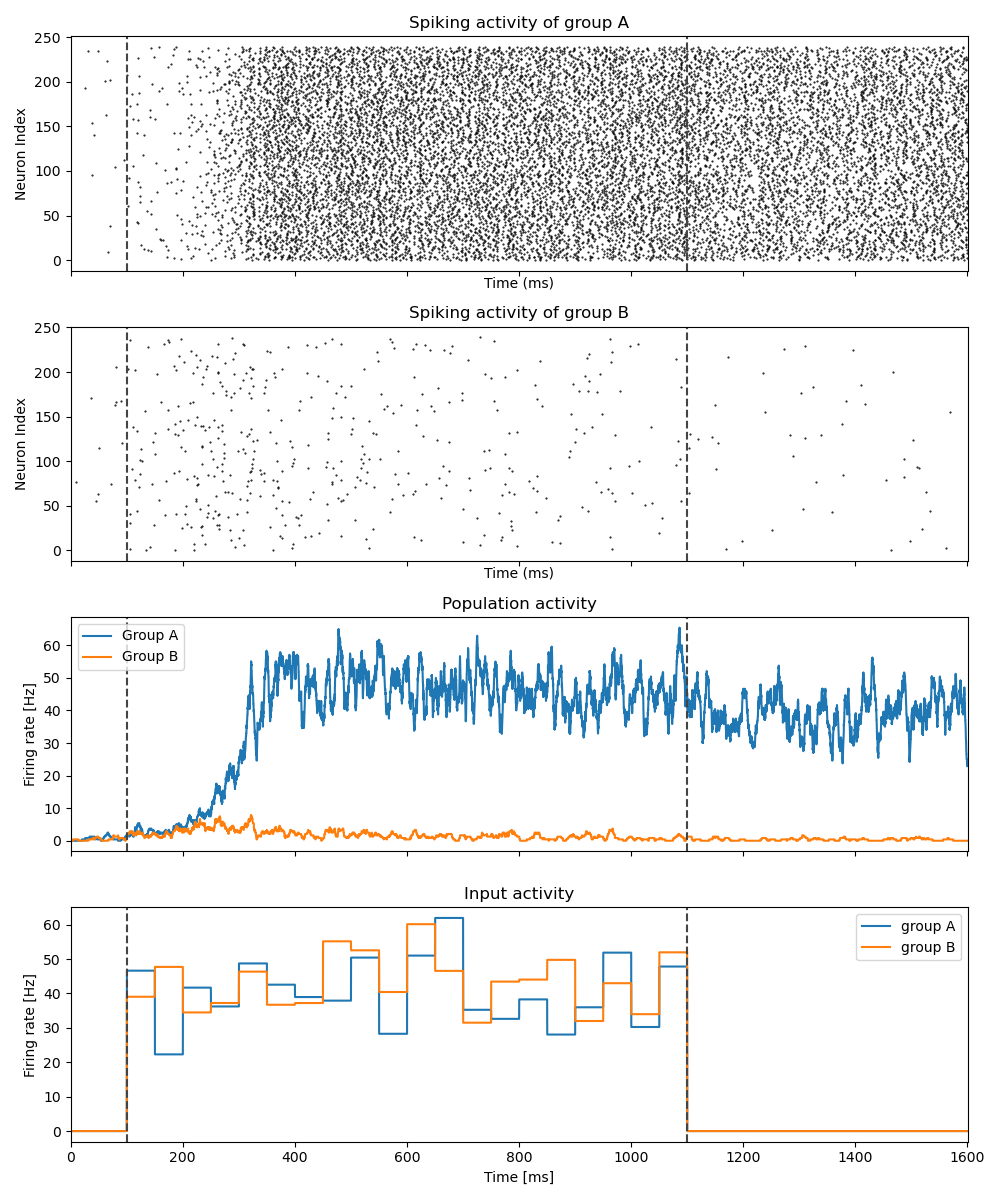
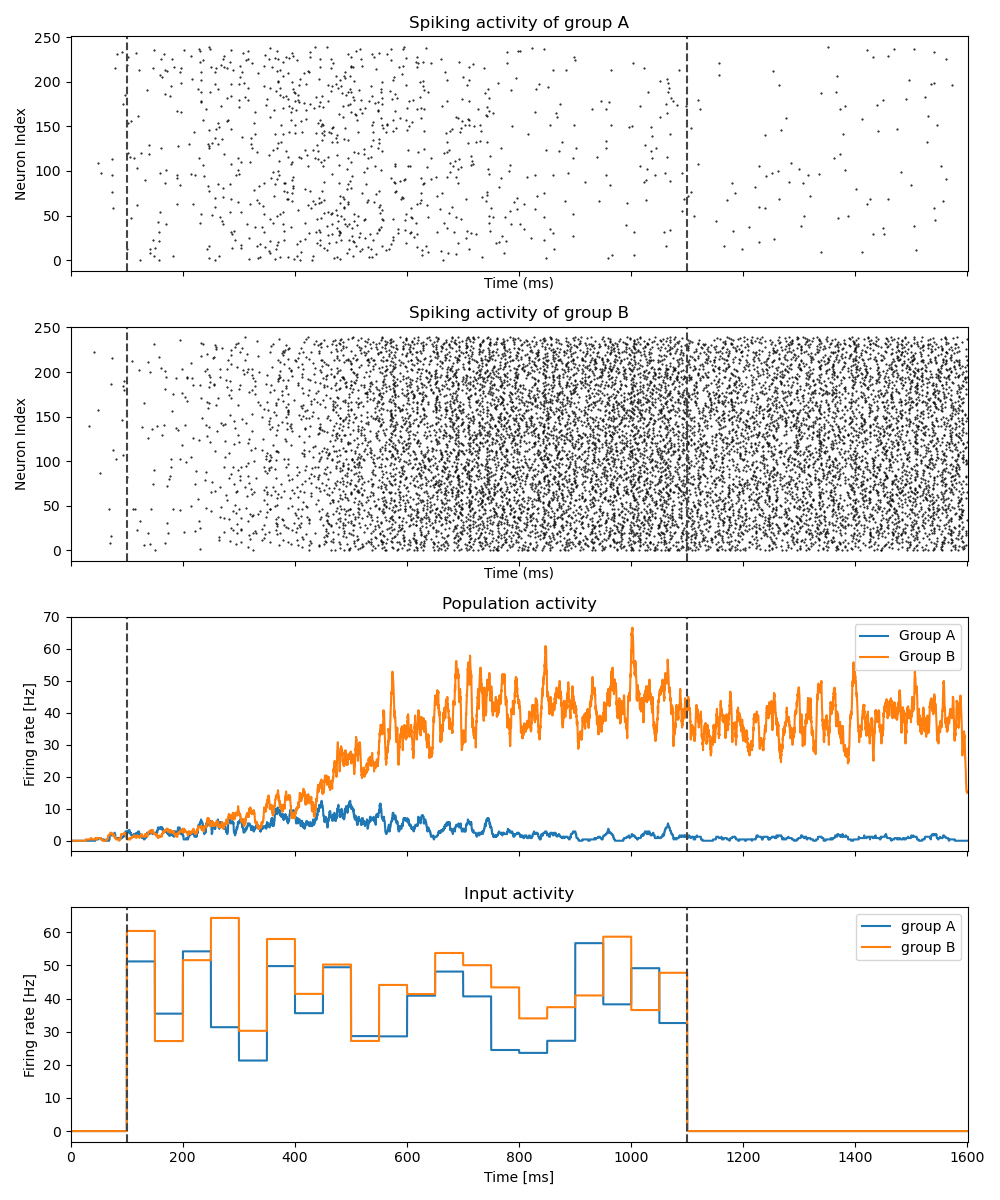
modify the dmnet (finally worked)

diff --git a/network_models/decision_making.py b/network_models/decision_making.py
@@ -44,11 +44,10 @@ class PoissonStim(bp.dyn.NeuGroup):
 
 
 class DecisionMaking(bp.dyn.Network):
-  def __init__(self, scale=1., mu0=40., coherence=25.6, dt=0.1):
+  def __init__(self, scale=1., mu0=40., coherence=25.6, f=0.15, dt=bm.get_dt()):
     super(DecisionMaking, self).__init__()
 
     # 初始神经元化参数
-    f = 0.15
     num_exc = int(1600 * scale)
     num_inh = int(400 * scale)
     num_A = int(f * num_exc)
@@ -59,30 +58,30 @@ class DecisionMaking(bp.dyn.Network):
     # 初始化突触参数
     w_pos = 1.7
     w_neg = 1. - f * (w_pos - 1.) / (1. - f)
-    g_max_ext2E_AMPA = 2.1 * 1e-3  # uS
-    g_max_ext2I_AMPA = 1.62 * 1e-3  # uS
-    g_max_E2E_AMPA = 0.05 * 1e-3 / scale  # uS
-    g_max_E2E_NMDA = 0.165 * 1e-3 / scale  # uS
-    g_max_E2I_AMPA = 0.04 * 1e-3 / scale  # uS
-    g_max_E2I_NMDA = 0.13 * 1e-3 / scale  # uS
-    g_max_I2E_GABAa = 1.3 * 1e-3 / scale  # uS
-    g_max_I2I_GABAa = 1.0 * 1e-3 / scale  # uS
+    g_ext2E_AMPA = 2.1  # nS
+    g_ext2I_AMPA = 1.62  # nS
+    g_E2E_AMPA = 0.05 / scale  # nS
+    g_E2I_AMPA = 0.04 / scale  # nS
+    g_E2E_NMDA = 0.165 / scale  # nS
+    g_E2I_NMDA = 0.13 / scale  # nS
+    g_I2E_GABAa = 1.3 / scale  # nS
+    g_I2I_GABAa = 1.0 / scale  # nS
 
     ampa_par = dict(delay_step=int(0.5 / dt), E=0., tau=2.0)  # AMP受体的参数
     gaba_par = dict(delay_step=int(0.5 / dt), E=-70., tau=5.0)  # GABA受体的参数
     nmda_par = dict(delay_step=int(0.5 / dt), tau_decay=100, tau_rise=2., E=0., cc_Mg=1., a=0.5)  # NMDA受体的参数
 
     # 兴奋性神经元群（锥体神经元）
-    A = bp.dyn.LIF(num_A, V_rest=-70., V_reset=-55., V_th=-50., tau=20., R=40.,
-                   tau_ref=2., V_initializer=bp.init.OneInit(-55.))
-    B = bp.dyn.LIF(num_B, V_rest=-70., V_reset=-55., V_th=-50., tau=20., R=40.,
-                   tau_ref=2., V_initializer=bp.init.OneInit(-55.))
-    N = bp.dyn.LIF(num_N, V_rest=-70., V_reset=-55., V_th=-50., tau=20., R=40.,
-                   tau_ref=2., V_initializer=bp.init.OneInit(-55.))
+    A = bp.dyn.LIF(num_A, V_rest=-70., V_reset=-55., V_th=-50., tau=20., R=0.04,
+                   tau_ref=2., V_initializer=bp.init.OneInit(-70.))
+    B = bp.dyn.LIF(num_B, V_rest=-70., V_reset=-55., V_th=-50., tau=20., R=0.04,
+                   tau_ref=2., V_initializer=bp.init.OneInit(-70.))
+    N = bp.dyn.LIF(num_N, V_rest=-70., V_reset=-55., V_th=-50., tau=20., R=0.04,
+                   tau_ref=2., V_initializer=bp.init.OneInit(-70.))
 
     # 抑制性神经元细胞（中间神经元）
-    I = bp.dyn.LIF(num_inh, V_rest=-70., V_reset=-55., V_th=-50., tau=10., R=50.,
-                   tau_ref=1., V_initializer=bp.init.OneInit(-55.))
+    I = bp.dyn.LIF(num_inh, V_rest=-70., V_reset=-55., V_th=-50., tau=10., R=0.05,
+                   tau_ref=1., V_initializer=bp.init.OneInit(-70.))
 
     # 产生输入信号的神经元群（给予神经元群A和B泊松刺激）
     IA = PoissonStim(num_A, freq_var=10., t_interval=50., freq_mean=mu0 + mu0 / 100. * coherence)
@@ -95,60 +94,48 @@ class DecisionMaking(bp.dyn.Network):
     self.noise_I = bp.dyn.PoissonGroup(num_inh, freqs=poisson_freq)
 
     # IA和A的连接、IB和B的连接
-    self.IA2A = bp.dyn.ExpCOBA(IA, A, bp.conn.One2One(), g_max=g_max_ext2E_AMPA, **ampa_par)
-    self.IB2B = bp.dyn.ExpCOBA(IB, B, bp.conn.One2One(), g_max=g_max_ext2E_AMPA, **ampa_par)
+    self.IA2A = bp.dyn.ExpCOBA(IA, A, bp.conn.One2One(), g_max=g_ext2E_AMPA, **ampa_par)
+    self.IB2B = bp.dyn.ExpCOBA(IB, B, bp.conn.One2One(), g_max=g_ext2E_AMPA, **ampa_par)
 
-    # 兴奋性神经元群A、B、N内部和之间的连接（每个突触都同时有AMPA和NMDA受体）
-    self.A2A_AMPA = bp.dyn.ExpCOBA(A, A, bp.conn.All2All(), g_max=g_max_E2E_AMPA * w_pos, **ampa_par)
-    self.A2A_NMDA = bp.dyn.NMDA(A, A, bp.conn.All2All(), g_max=g_max_E2E_NMDA * w_pos, **nmda_par)
+    # 兴奋性神经元群A、B、N到A、B、N、I的连接（每个突触都同时有AMPA和NMDA受体）
+    self.N2B_AMPA = bp.dyn.ExpCOBA(N, B, bp.conn.All2All(), g_max=g_E2E_AMPA * w_neg, **ampa_par)
+    self.N2A_AMPA = bp.dyn.ExpCOBA(N, A, bp.conn.All2All(), g_max=g_E2E_AMPA * w_neg, **ampa_par)
+    self.N2N_AMPA = bp.dyn.ExpCOBA(N, N, bp.conn.All2All(), g_max=g_E2E_AMPA, **ampa_par)
+    self.N2I_AMPA = bp.dyn.ExpCOBA(N, I, bp.conn.All2All(), g_max=g_E2I_AMPA, **ampa_par)
+    self.N2B_NMDA = bp.dyn.NMDA(N, B, bp.conn.All2All(), g_max=g_E2E_NMDA * w_neg, **nmda_par)
+    self.N2A_NMDA = bp.dyn.NMDA(N, A, bp.conn.All2All(), g_max=g_E2E_NMDA * w_neg, **nmda_par)
+    self.N2N_NMDA = bp.dyn.NMDA(N, N, bp.conn.All2All(), g_max=g_E2E_NMDA, **nmda_par)
+    self.N2I_NMDA = bp.dyn.NMDA(N, I, bp.conn.All2All(), g_max=g_E2I_NMDA, **nmda_par)
 
-    self.A2B_AMPA = bp.dyn.ExpCOBA(A, B, bp.conn.All2All(), g_max=g_max_E2E_AMPA * w_neg, **ampa_par)
-    self.A2B_NMDA = bp.dyn.NMDA(A, B, bp.conn.All2All(), g_max=g_max_E2E_NMDA * w_neg, **nmda_par)
+    self.B2B_AMPA = bp.dyn.ExpCOBA(B, B, bp.conn.All2All(), g_max=g_E2E_AMPA * w_pos, **ampa_par)
+    self.B2A_AMPA = bp.dyn.ExpCOBA(B, A, bp.conn.All2All(), g_max=g_E2E_AMPA * w_neg, **ampa_par)
+    self.B2N_AMPA = bp.dyn.ExpCOBA(B, N, bp.conn.All2All(), g_max=g_E2E_AMPA, **ampa_par)
+    self.B2I_AMPA = bp.dyn.ExpCOBA(B, I, bp.conn.All2All(), g_max=g_E2I_AMPA, **ampa_par)
+    self.B2B_NMDA = bp.dyn.NMDA(B, B, bp.conn.All2All(), g_max=g_E2E_NMDA * w_pos, **nmda_par)
+    self.B2A_NMDA = bp.dyn.NMDA(B, A, bp.conn.All2All(), g_max=g_E2E_NMDA * w_neg, **nmda_par)
+    self.B2N_NMDA = bp.dyn.NMDA(B, N, bp.conn.All2All(), g_max=g_E2E_NMDA, **nmda_par)
+    self.B2I_NMDA = bp.dyn.NMDA(B, I, bp.conn.All2All(), g_max=g_E2I_NMDA, **nmda_par)
 
-    self.A2N_AMPA = bp.dyn.ExpCOBA(A, N, bp.conn.All2All(), g_max=g_max_E2E_AMPA, **ampa_par)
-    self.A2N_NMDA = bp.dyn.NMDA(A, N, bp.conn.All2All(), g_max=g_max_E2E_NMDA, **nmda_par)
+    self.A2B_AMPA = bp.dyn.ExpCOBA(A, B, bp.conn.All2All(), g_max=g_E2E_AMPA * w_neg, **ampa_par)
+    self.A2A_AMPA = bp.dyn.ExpCOBA(A, A, bp.conn.All2All(), g_max=g_E2E_AMPA * w_pos, **ampa_par)
+    self.A2N_AMPA = bp.dyn.ExpCOBA(A, N, bp.conn.All2All(), g_max=g_E2E_AMPA, **ampa_par)
+    self.A2I_AMPA = bp.dyn.ExpCOBA(A, I, bp.conn.All2All(), g_max=g_E2I_AMPA, **ampa_par)
+    self.A2B_NMDA = bp.dyn.NMDA(A, B, bp.conn.All2All(), g_max=g_E2E_NMDA * w_neg, **nmda_par)
+    self.A2A_NMDA = bp.dyn.NMDA(A, A, bp.conn.All2All(), g_max=g_E2E_NMDA * w_pos, **nmda_par)
+    self.A2N_NMDA = bp.dyn.NMDA(A, N, bp.conn.All2All(), g_max=g_E2E_NMDA, **nmda_par)
+    self.A2I_NMDA = bp.dyn.NMDA(A, I, bp.conn.All2All(), g_max=g_E2I_NMDA, **nmda_par)
 
-    self.B2A_AMPA = bp.dyn.ExpCOBA(B, A, bp.conn.All2All(), g_max=g_max_E2E_AMPA * w_neg)
-    self.B2A_NMDA = bp.dyn.NMDA(B, A, bp.conn.All2All(), g_max=g_max_E2E_NMDA * w_neg, **nmda_par)
-
-    self.B2B_AMPA = bp.dyn.ExpCOBA(B, B, bp.conn.All2All(), g_max=g_max_E2E_AMPA * w_pos, **ampa_par)
-    self.B2B_NMDA = bp.dyn.NMDA(B, B, bp.conn.All2All(), g_max=g_max_E2E_NMDA * w_pos, **nmda_par)
-
-    self.B2N_AMPA = bp.dyn.ExpCOBA(B, N, bp.conn.All2All(), g_max=g_max_E2E_AMPA, **ampa_par)
-    self.B2N_NMDA = bp.dyn.NMDA(B, N, bp.conn.All2All(), g_max=g_max_E2E_NMDA, **nmda_par)
-
-    self.N2A_AMPA = bp.dyn.ExpCOBA(N, A, bp.conn.All2All(), g_max=g_max_E2E_AMPA * w_neg, **ampa_par)
-    self.N2A_NMDA = bp.dyn.NMDA(N, A, bp.conn.All2All(), g_max=g_max_E2E_NMDA * w_neg, **nmda_par)
-
-    self.N2B_AMPA = bp.dyn.ExpCOBA(N, B, bp.conn.All2All(), g_max=g_max_E2E_AMPA * w_neg, **ampa_par)
-    self.N2B_NMDA = bp.dyn.NMDA(N, B, bp.conn.All2All(), g_max=g_max_E2E_NMDA * w_neg, **nmda_par)
-
-    self.N2N_AMPA = bp.dyn.ExpCOBA(N, N, bp.conn.All2All(), g_max=g_max_E2E_AMPA, **ampa_par)
-    self.N2N_NMDA = bp.dyn.NMDA(N, N, bp.conn.All2All(), g_max=g_max_E2E_NMDA, **nmda_par)
-
-    # 兴奋性神经元群A、B、N到抑制性神经元群I的连接（每个突触都同时有AMPA和NMDA受体）
-    self.A2I_AMPA = bp.dyn.ExpCOBA(A, I, bp.conn.All2All(), g_max=g_max_E2I_AMPA, **ampa_par)
-    self.A2I_NMDA = bp.dyn.NMDA(A, I, bp.conn.All2All(), g_max=g_max_E2I_NMDA, **nmda_par)
-
-    self.B2I_AMPA = bp.dyn.ExpCOBA(B, I, bp.conn.All2All(), g_max=g_max_E2I_AMPA, **ampa_par)
-    self.B2I_NMDA = bp.dyn.NMDA(B, I, bp.conn.All2All(), g_max=g_max_E2I_NMDA, **nmda_par)
-
-    self.N2I_AMPA = bp.dyn.ExpCOBA(N, I, bp.conn.All2All(), g_max=g_max_E2I_AMPA, **ampa_par)
-    self.N2I_NMDA = bp.dyn.NMDA(N, I, bp.conn.All2All(), g_max=g_max_E2I_NMDA, **nmda_par)
-
-    # 抑制性神经元群I到兴奋性神经元群A、B、N的连接
-    self.I2A = bp.dyn.ExpCOBA(I, A, bp.conn.All2All(), g_max=g_max_I2E_GABAa, **gaba_par)
-    self.I2B = bp.dyn.ExpCOBA(I, B, bp.conn.All2All(), g_max=g_max_I2E_GABAa, **gaba_par)
-    self.I2N = bp.dyn.ExpCOBA(I, N, bp.conn.All2All(), g_max=g_max_I2E_GABAa, **gaba_par)
-
-    # 抑制性神经元群I内部的连接
-    self.I2I = bp.dyn.ExpCOBA(I, I, bp.conn.All2All(), g_max=g_max_I2I_GABAa, **gaba_par)
+    # 抑制性神经元群I到A、B、N、I的连接
+    self.I2B = bp.dyn.ExpCOBA(I, B, bp.conn.All2All(), g_max=g_I2E_GABAa, **gaba_par)
+    self.I2A = bp.dyn.ExpCOBA(I, A, bp.conn.All2All(), g_max=g_I2E_GABAa, **gaba_par)
+    self.I2N = bp.dyn.ExpCOBA(I, N, bp.conn.All2All(), g_max=g_I2E_GABAa, **gaba_par)
+    self.I2I = bp.dyn.ExpCOBA(I, I, bp.conn.All2All(), g_max=g_I2I_GABAa, **gaba_par)
 
     # 产生噪声的神经元群到神经元群A、B、N、I的连接
-    self.noise2A = bp.dyn.ExpCOBA(self.noise_A, A, bp.conn.One2One(), g_max=g_max_ext2E_AMPA, **ampa_par)
-    self.noise2B = bp.dyn.ExpCOBA(self.noise_B, B, bp.conn.One2One(), g_max=g_max_ext2E_AMPA, **ampa_par)
-    self.noise2N = bp.dyn.ExpCOBA(self.noise_N, N, bp.conn.One2One(), g_max=g_max_ext2E_AMPA, **ampa_par)
-    self.noise2I = bp.dyn.ExpCOBA(self.noise_I, I, bp.conn.One2One(), g_max=g_max_ext2I_AMPA, **ampa_par)
+    self.noise2B = bp.dyn.ExpCOBA(self.noise_B, B, bp.conn.One2One(), g_max=g_ext2E_AMPA, **ampa_par)
+    self.noise2A = bp.dyn.ExpCOBA(self.noise_A, A, bp.conn.One2One(), g_max=g_ext2E_AMPA, **ampa_par)
+    self.noise2N = bp.dyn.ExpCOBA(self.noise_N, N, bp.conn.One2One(), g_max=g_ext2E_AMPA, **ampa_par)
+    self.noise2I = bp.dyn.ExpCOBA(self.noise_I, I, bp.conn.One2One(), g_max=g_ext2I_AMPA, **ampa_par)
 
     # 将各个神经元群的变量保存到类中
     self.A = A
@@ -160,7 +147,8 @@ class DecisionMaking(bp.dyn.Network):
 
 
 # 数值模拟
-net = DecisionMaking(coherence=25.6)
+coherence = 25.6
+net = DecisionMaking(scale=1., coherence=coherence, mu0=40.)
 runner = bp.dyn.DSRunner(net, monitors=['A.spike', 'B.spike', 'IA.freq', 'IB.freq'])
 t = runner(total_period)
 
@@ -205,7 +193,7 @@ for i in range(4):
 plt.xlim(t_start, total_period + 1)
 plt.xlabel("Time [ms]")
 plt.tight_layout()
-plt.show()
+# plt.show()
 
-# plt.savefig('E:\\2021-2022RA\\神经计算建模实战\\NeuralModeling\\'
-#             'images_network_models\\decision_making_output_c=-25.6-3.png')
+plt.savefig('E:\\2021-2022RA\\神经计算建模实战\\NeuralModeling\\images_network_models\\'
+            'decision_making_output_c={}.png'.format(coherence))

diff --git a/network_models/decision_making_original.py b/network_models/decision_making_original.py
@@ -123,7 +123,7 @@ class DecisionMaking(bp.dyn.Network):
     self.A2N_AMPA = bp.dyn.ExpCOBA(A, N, bp.conn.All2All(), g_max=g_max_E2E_AMPA, **ampa_par)
     self.A2N_NMDA = bp.dyn.NMDA(A, N, bp.conn.All2All(), g_max=g_max_E2E_NMDA, **nmda_par)
 
-    self.B2A_AMPA = bp.dyn.ExpCOBA(B, A, bp.conn.All2All(), g_max=g_max_E2E_AMPA * w_neg)
+    self.B2A_AMPA = bp.dyn.ExpCOBA(B, A, bp.conn.All2All(), g_max=g_max_E2E_AMPA * w_neg, **ampa_par)
     self.B2A_NMDA = bp.dyn.NMDA(B, A, bp.conn.All2All(), g_max=g_max_E2E_NMDA * w_neg, **nmda_par)
 
     self.B2B_AMPA = bp.dyn.ExpCOBA(B, B, bp.conn.All2All(), g_max=g_max_E2E_AMPA * w_pos, **ampa_par)
@@ -179,11 +179,11 @@ class DecisionMaking(bp.dyn.Network):
   #   for node in nodes.values():
   #     node.update(_t, _dt)
 
-
-net = DecisionMaking(scale=1., coherence=-25.6)
+coherence = 25.6
+net = DecisionMaking(scale=1., coherence=coherence)
 
 runner = bp.dyn.DSRunner(net, monitors=['A.spike', 'B.spike', 'IA.freq', 'IB.freq'])
-pre_stimulus_period = 1000.
+pre_stimulus_period = 100.
 stimulus_period = 1000.
 delay_period = 500.
 total_period = pre_stimulus_period + stimulus_period + delay_period
@@ -236,4 +236,7 @@ plt.axvline(pre_stimulus_period + stimulus_period + delay_period, linestyle='das
 plt.legend()
 
 plt.xlabel("Time [ms]")
-plt.show()
+# plt.show()
+
+plt.savefig('E:\\2021-2022RA\\神经计算建模实战\\NeuralModeling\\images_network_models\\'
+            'decision_making_output_c={}.png'.format(coherence))
